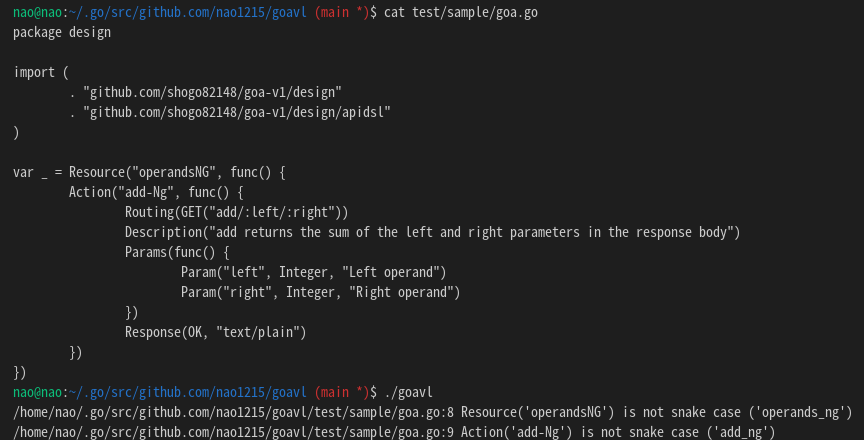
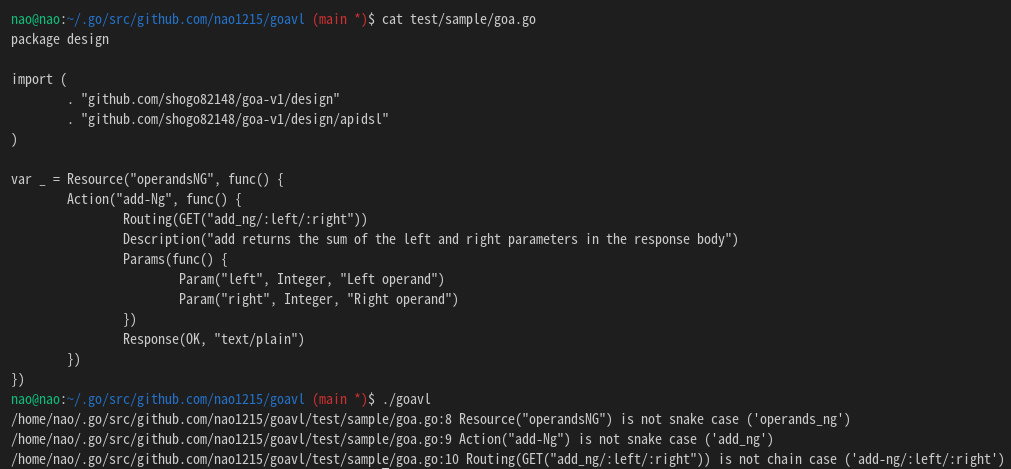
Add check argument name of Routing.

diff --git a/internal/task/name/action.go b/internal/task/name/action.go
@@ -22,37 +22,27 @@ func ActionNameChecker(filepath string) {
 	for _, decl := range f.Decls {
 		switch d := decl.(type) {
 		case *ast.GenDecl:
-			for _, spec := range d.Specs {
-				switch s := spec.(type) {
-				case *ast.ValueSpec:
-					for _, v := range s.Values {
-						switch fun := v.(type) {
-						case *ast.CallExpr:
-							for _, a := range fun.Args {
-								switch funcLit := a.(type) {
-								case *ast.FuncLit:
-									exprStmt := funcLit.Body.List[0].(*ast.ExprStmt) // TODO: Danger
-									if exprStmt.X.(*ast.CallExpr).Fun.(*ast.Ident).Name == "Action" {
-										for _, arg := range exprStmt.X.(*ast.CallExpr).Args {
-											switch bl := arg.(type) {
-											case *ast.BasicLit:
-												firstArg := strings.Replace(bl.Value, "\"", "", -1)
-												if !strutils.IsSnakeCase(firstArg) {
-													fmt.Fprintf(os.Stderr, "%s:%d Action('%s') is not snake case ('%s')\n",
-														filepath,
-														fset.Position(exprStmt.X.(*ast.CallExpr).Fun.(*ast.Ident).NamePos).Line,
-														firstArg,
-														strutils.ToSnakeCase(firstArg))
-												}
-											}
-										}
-									}
+			ast.Inspect(d, func(node ast.Node) bool {
+				switch node := node.(type) {
+				case *ast.CallExpr:
+					if node.Fun.(*ast.Ident).Name == "Action" {
+						for _, arg := range node.Args {
+							switch bl := arg.(type) {
+							case *ast.BasicLit:
+								firstArg := strings.Replace(bl.Value, "\"", "", -1)
+								if !strutils.IsSnakeCase(firstArg) {
+									fmt.Fprintf(os.Stderr, "%s:%d Action(\"%s\") is not snake case ('%s')\n",
+										filepath,
+										fset.Position(node.Fun.(*ast.Ident).NamePos).Line,
+										firstArg,
+										strutils.ToSnakeCase(firstArg))
 								}
 							}
 						}
 					}
 				}
-			}
+				return true
+			})
 		}
 	}
 }

diff --git a/internal/task/name/routing.go b/internal/task/name/routing.go
@@ -12,8 +12,8 @@ import (
 	"github.com/nao1215/goavl/internal/utils/strutils"
 )
 
-// ResourceNameChecker check variable name and argument name.
-func ResourceNameChecker(filepath string) {
+// RoutingNameChecker check variable name and argument name.
+func RoutingNameChecker(filepath string) {
 	fset := token.NewFileSet()
 	f, err := parser.ParseFile(fset, filepath, nil, 0)
 	if err != nil {
@@ -25,14 +25,16 @@ func ResourceNameChecker(filepath string) {
 			ast.Inspect(d, func(node ast.Node) bool {
 				switch node := node.(type) {
 				case *ast.CallExpr:
-					if node.Fun.(*ast.Ident).Name == "Resource" {
-						firstArg := strings.Replace(node.Args[0].(*ast.BasicLit).Value, "\"", "", -1)
-						if !strutils.IsSnakeCase(firstArg) {
-							fmt.Fprintf(os.Stderr, "%s:%d Resource(\"%s\") is not snake case ('%s')\n",
+					if node.Fun.(*ast.Ident).Name == "Routing" {
+						firstArg := strings.Replace(node.Args[0].(*ast.CallExpr).Args[0].(*ast.BasicLit).Value,
+							"\"", "", -1)
+						if !strutils.IsChainCaseForRouting(firstArg) {
+							fmt.Fprintf(os.Stderr, "%s:%d Routing(%s(\"%s\")) is not chain case ('%s')\n",
 								filepath,
 								fset.Position(node.Fun.(*ast.Ident).NamePos).Line,
+								node.Args[0].(*ast.CallExpr).Fun.(*ast.Ident).Name,
 								firstArg,
-								strutils.ToSnakeCase(firstArg))
+								strutils.ToChainCaseForRouting(firstArg))
 						}
 					}
 				}

diff --git a/internal/utils/strutils/casee.go b/internal/utils/strutils/casee.go
@@ -260,3 +260,54 @@ func toUpperFirstRune(s string) string {
 	rs := []rune(s)
 	return strings.ToUpper(string(rs[0])) + string(rs[1:])
 }
+
+//---------The following code does not exist in the original version-------------
+
+// IsChainCaseForRouting whether argument is chain-case style string, return true.
+func IsChainCaseForRouting(s string) bool {
+	if strings.Contains(s, "-") {
+		fields := strings.Split(s, "-")
+		for _, field := range fields {
+			if !isMadeByLowerAndDigitForRouting(field) {
+				return false
+			}
+		}
+		return true
+	}
+	return isMadeByLowerAndDigitForRouting(s)
+}
+
+func isMadeByLowerAndDigitForRouting(s string) bool {
+	if len(s) == 0 {
+		return false
+	}
+
+	for _, r := range s {
+		if !unicode.IsLower(r) && !unicode.IsDigit(r) && !(r == rune(':')) && !(r == rune('/')) {
+			return false
+		}
+	}
+
+	return true
+}
+
+// ToChainCaseForRouting convert argument to chain case style string.
+// If argument is empty, return itself.
+func ToChainCaseForRouting(s string) string {
+	if len(s) == 0 {
+		return s
+	}
+
+	str := ""
+	for i, f := range splitToLowerFields(s) {
+		if i == 0 {
+			str = f
+			continue
+		} else if f == "/:" || strings.HasSuffix(str, "/:") {
+			str = str + f
+			continue
+		}
+		str = str + "-" + f
+	}
+	return str
+}

diff --git a/internal/task/task.go b/internal/task/task.go
@@ -22,6 +22,7 @@ func Setup() []Task {
 	tasks = append(tasks, NewViewSyntaxTask()) // Not implement
 	tasks = append(tasks, NewResourceNameCheckerTask())
 	tasks = append(tasks, NewActionNameCheckerTask())
+	tasks = append(tasks, NewRoutingNameCheckerTask())
 	return tasks
 }
 
@@ -39,7 +40,7 @@ func NewViewSyntaxTask() Task {
 	return task
 }
 
-// NewResourceNameCheckerTask return task that check variable name and argument name.
+// NewResourceNameCheckerTask return task that check Resource() argument name.
 func NewResourceNameCheckerTask() Task {
 	task := Task{
 		Name:  "Resource() argument name checker",
@@ -48,11 +49,20 @@ func NewResourceNameCheckerTask() Task {
 	return task
 }
 
-// NewActionNameCheckerTask return task that check variable name and argument name.
+// NewActionNameCheckerTask return task that check Action() argument name.
 func NewActionNameCheckerTask() Task {
 	task := Task{
 		Name:  "Action() argument name checker",
 		Check: name.ActionNameChecker,
+	}
+	return task
+}
+
+// NewRoutingNameCheckerTask return task that check Routing() argument name.
+func NewRoutingNameCheckerTask() Task {
+	task := Task{
+		Name:  "Routing() argument name checker",
+		Check: name.RoutingNameChecker,
 	}
 	return task
 }

diff --git a/test/sample/goa.go b/test/sample/goa.go
@@ -7,7 +7,7 @@ import (
 
 var _ = Resource("operandsNG", func() {
 	Action("add-Ng", func() {
-		Routing(GET("add/:left/:right"))
+		Routing(GET("add_ng/:left/:right"))
 		Description("add returns the sum of the left and right parameters in the response body")
 		Params(func() {
 			Param("left", Integer, "Left operand")

diff --git a/README.md b/README.md
@@ -8,5 +8,6 @@ Only Version 1 is supported, Version 3 is not supported.
 # Progress of implement
 - Add check argument name of Resource().
 - Add check argument name of Action().
+- Add check argument name of Routing().
 
 ![goavl実行例](./doc/sample.png) 
